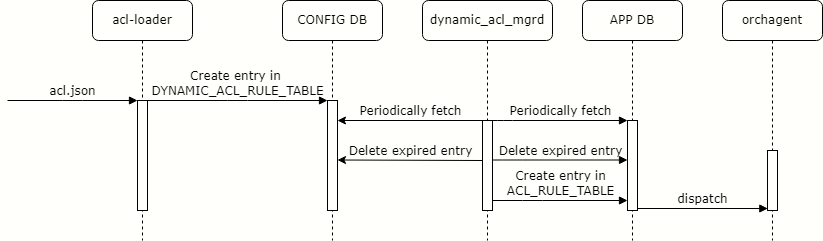
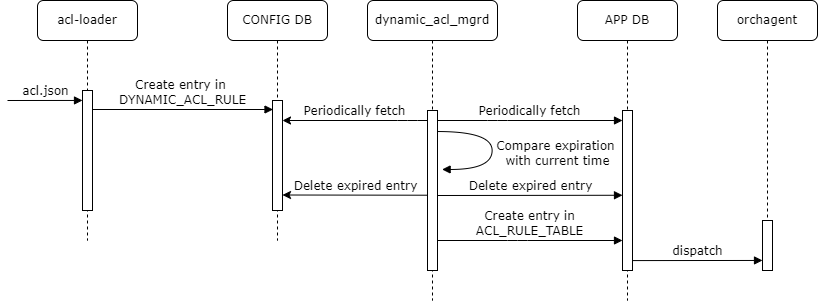
20220908 update

diff --git a/doc/acl/Dynamic-ACL-Design.md b/doc/acl/Dynamic-ACL-Design.md
@@ -13,9 +13,10 @@
   - [Requirements](#requirements)
   - [Architecture Design](#architecture-design)
   - [High-Level Design](#high-level-design)
-    - [db schema](#db-schema)
+    - [DB schema](#db-schema)
       - [CONFIG DB](#config-db)
       - [APP DB](#app-db)
+    - [Code change](#code-change)
       - [acl-loader](#acl-loader)
       - [dynamic_acl_mgrd](#dynamic_acl_mgrd)
     - [Work flow](#work-flow)
@@ -23,6 +24,8 @@
       - [Refresh TTL of existing ACL rule](#refresh-ttl-of-existing-acl-rule)
     - [Testing Requirements/Design](#testing-requirementsdesign)
       - [Unit Test cases](#unit-test-cases)
+        - [For `acl-loader`](#for-acl-loader)
+        - [For `dynamic_acl_mgrd`](#for-dynamic_acl_mgrd)
       - [System Test cases](#system-test-cases)
   - [Open questions](#open-questions)
   -[Work flow](#work-flow)
@@ -51,6 +54,7 @@ The scope of this document covers the design of dynamic data plane ACL, which as
 | Definitions/Abbreviation | Description                                |
 |--------------------------|--------------------------------------------|
 | ACL                      | Access Control List                        |
+| TTL | Time to Live |
 
 
 ## Overview 
@@ -61,10 +65,10 @@ This doc proposes an enhancement to current ACL, which add a TTL to ACL rules an
 
 ## Requirements
 
-- ACL rules are added with a TTL value
-- ACL rules are removed when TTL expired
-- ACL rules' TTL can be refreshed
-- ACL rules with TTL are kept after reboot
+- ACL rules are added with a TTL value.
+- ACL rules are removed after TTL seconds from the time they are added.
+- ACL rules' TTL can be refreshed. The new expiration time is current time plus new TTL seconds.
+- ACL rules with TTL value are kept after reboot.
 
 ## Architecture Design 
 
@@ -72,12 +76,13 @@ No SONiC architecture change is required to support dynamic ACL.
 
 ## High-Level Design
 
-### db schema
+### DB schema
 
 #### CONFIG DB
 
-A new table `DYNAMIC_ACL_RULE_TABLE` is introduced to config_db to record the ACL rules with the timestamp of creation, expiration and TTL of an ACL rule.
-The new table contains all fileds of ACL rules and new fields are added: `is_dynamic`, `ttl`, `creation_time` and `expiration_time`.
+A new table `DYNAMIC_ACL_RULE` is introduced to `CONFIG DB` to record the ACL rules with a boolean flag, timestamp of creation, timestamp of expiration and TTL of an ACL rule.
+
+The new table contains all fileds of a normal ACL rule, and 4 new fields are added: `is_dynamic`, `creation_time`, `expiration_time` and `ttl`. The new fields definition is listed below:
 ```
 key: ACL_RULE_TABLE:table_name:seq  ; key of the rule entry in the table, seq is the order of the rules   
                                     ; when the packet is filtered by the ACL "policy_name".   
@@ -89,23 +94,23 @@ creation_time   = Integer     ; timestamp when the rule is created or refreshed
 expiration_time = Integer     ; timestamp when the rule is expired
 ttl             = Integer     ; the ttl, in second
 ```
-A sample config for ACL rule
+A sample config for ACL rule in `CONFIG DB`
 ```json
 {
-    "DYNAMIC_ACL_RULE_TABLE|DATAACL|DYNAMIC_RULE_1":{
+    "DYNAMIC_ACL_RULE|DATAACL|DYNAMIC_RULE_1":{
         "DST_IP":"192.168.0.3/32",
         "ETHER_TYPE":"2048",
         "PACKET_ACTION":"FORWARD",
         "PRIORITY":"9999",
         "SRC_IP":"192.168.0.2/32",
+        "is_dynamic": "True",
         "creation_time": "1662432143",
         "expiration_time": "1662432153",
-        "is_dynamic": "True",
         "ttl": "10"
     }
 }
 ```
-A sample json config for ACL rule
+A sample json config for ACL rule with TTL value
 ```json
 {
     "acl":{
@@ -143,13 +148,13 @@ A sample json config for ACL rule
     }
 }
 ```
-The YANG of ACL_RULE is required to be updated to accept new field `is_dynamic`, `ttl`, `creation_time` and `expiration_time`
+The YANG of `DYNAMIC_ACL_RULE` is required to be added to accept new fields `is_dynamic`, `creation_time`, `expiration_time` and `ttl`.
 
 Orchagent (actually `aclorch`) won't consume the value of the new flags. So no change is required to `orchagent`.
 #### APP DB
-Existing table `ACL_RULE_TABLE` is used to activate an effective ACL rule. The ACL rule format is the same as in CONFIG DB.
+Existing table `ACL_RULE_TABLE` in `APP DB` is used to activate an effective ACL rule. The ACL rule format is the same as in `CONFIG DB`.
 
-A sample
+A sample config for ACL rule in APP DB
 ```json
 {
     "APP_ACL_RULE|DATAACL|DYNAMIC_RULE_1":{
@@ -161,13 +166,14 @@ A sample
     }
 }
 ```
+### Code change
 #### acl-loader
 
-Update `acl-loader` script to parse new field `ttl`. The entry will be created in `DYNAMIC_ACL_RULE_TABLE` in `CONFIG DB` if `ttl` is present for certain an ACL rule in `acl.json`. Please find more details in workflow diagram.  
+Update `acl-loader` script to parse new field `ttl`. The entry will be created in `DYNAMIC_ACL_RULE` in `CONFIG DB` if `ttl` is present for an ACL rule in `acl.json`. Please find more details in workflow diagram.  
 
 #### dynamic_acl_mgrd
 
-A helper script will be added to `swss` container. The checker is started after `orchagent` and check the TTL of dynamic ACL rules every 10 seconds by default. It will walk through all entries in `DYNAMIC_ACL_RULE_TABLE`. New effective ACL rules are added to `APP_ACL_RULE` in `APP DB` and expired ACL rules are deleted both from `CONFIG DB` and `APP DB`.
+A helper script will be added to `swss` container. The checker is started after `orchagent` and check the TTL of time-based ACL rules in every 10 seconds by default. It will walk through all entries in `DYNAMIC_ACL_RULE` in `CONFIG DB`. New effective ACL rules are added to `APP_ACL_RULE` in `APP DB` and expired ACL rules are deleted both from `CONFIG DB` and `APP DB`.
 
 ### Work flow
 #### Add and remove time-based ACL rule
@@ -179,20 +185,29 @@ A helper script will be added to `swss` container. The checker is started after 
 <p align=center>
 <img src="img/time-based-acl-refresh.png" alt="Figure 2. Refresh dynamic ACL rule workflow">
 </p>
+After the overwrite operation, the subsequence is the same as in add and remove time-based ACL rule.
 
 ### Testing Requirements/Design  
 
 #### Unit Test cases  
 
-1. Enhance unit test for `acl-loader` to verify ACL rule with TTL is accepted; verify `DYNAMIC_ACL_RULE_TABLE` entry is created by CLI in `CONFIG DB`.
-2. Enhance unit test for `acl-loader` to verfiy ACL rule is deleted by CLI in `CONFIG DB`.
-3. Add unit test for `dynamic_acl_mgrd` to verify effective ACL rule is added to `APP DB`; verify expired ACL rule is removed both from `APP DB` and `CONFIG DB`.
+##### For `acl-loader`
++ Test case 1: Verify ACL rule with TTL is accepted by acl-loader.
++ Test case 2: Verify ACL rule without TTL is refused if acl-loader is trying to load time-base ACL rule.
++ Test case 3: Verify `DYNAMIC_ACL_RULE` entry is created in `CONFIG DB` by using `acl-loader` CLI to loads time-base ACL rule.
++ Test case 4: Verfiy ACL rule is deleted in `CONFIG DB` by using `acl-loader` CLI to delete time-base ACL rule.
++ Test case 5: Verify time-based ACL rule is restored in `CONFIG DB` after reboot.
++ Test case 6: Verfiy ACL rule's TTL can be refreshed in `CONFIG DB` by using `acl-loader` CLI to re-loads time-base ACL rule.
+
+##### For `dynamic_acl_mgrd`
++ Test case 5: Verify effective ACL rule is added to `APP DB`.
++ Test case 6: Verify expired ACL rule is removed both from `APP DB` and `CONFIG DB`.
 
 #### System Test cases
 
-1. Test case 1 Verify dynamic ACL rule is created as expected
-2. Test case 2 Verify dynamic ACL rule can be refreshed
-3. Test case 3 Verify expired dynamic ACL rule can be removed
++ Test case 1: Verify time-based ACL rule is created as expected. The related traffic behavior(ACCEPT or DROP) is consistent with ACL rule.
++ Test case 2: Verify time-based ACL rule is refreshed. The related traffic hehavior is kept the same.
++ Test case 3: Verify expired time-based ACL rule is removed. The related traffic behavior is consistent with ACL rule. 
 
 ## Open questions
 1. memory leak issue detection and validation.
